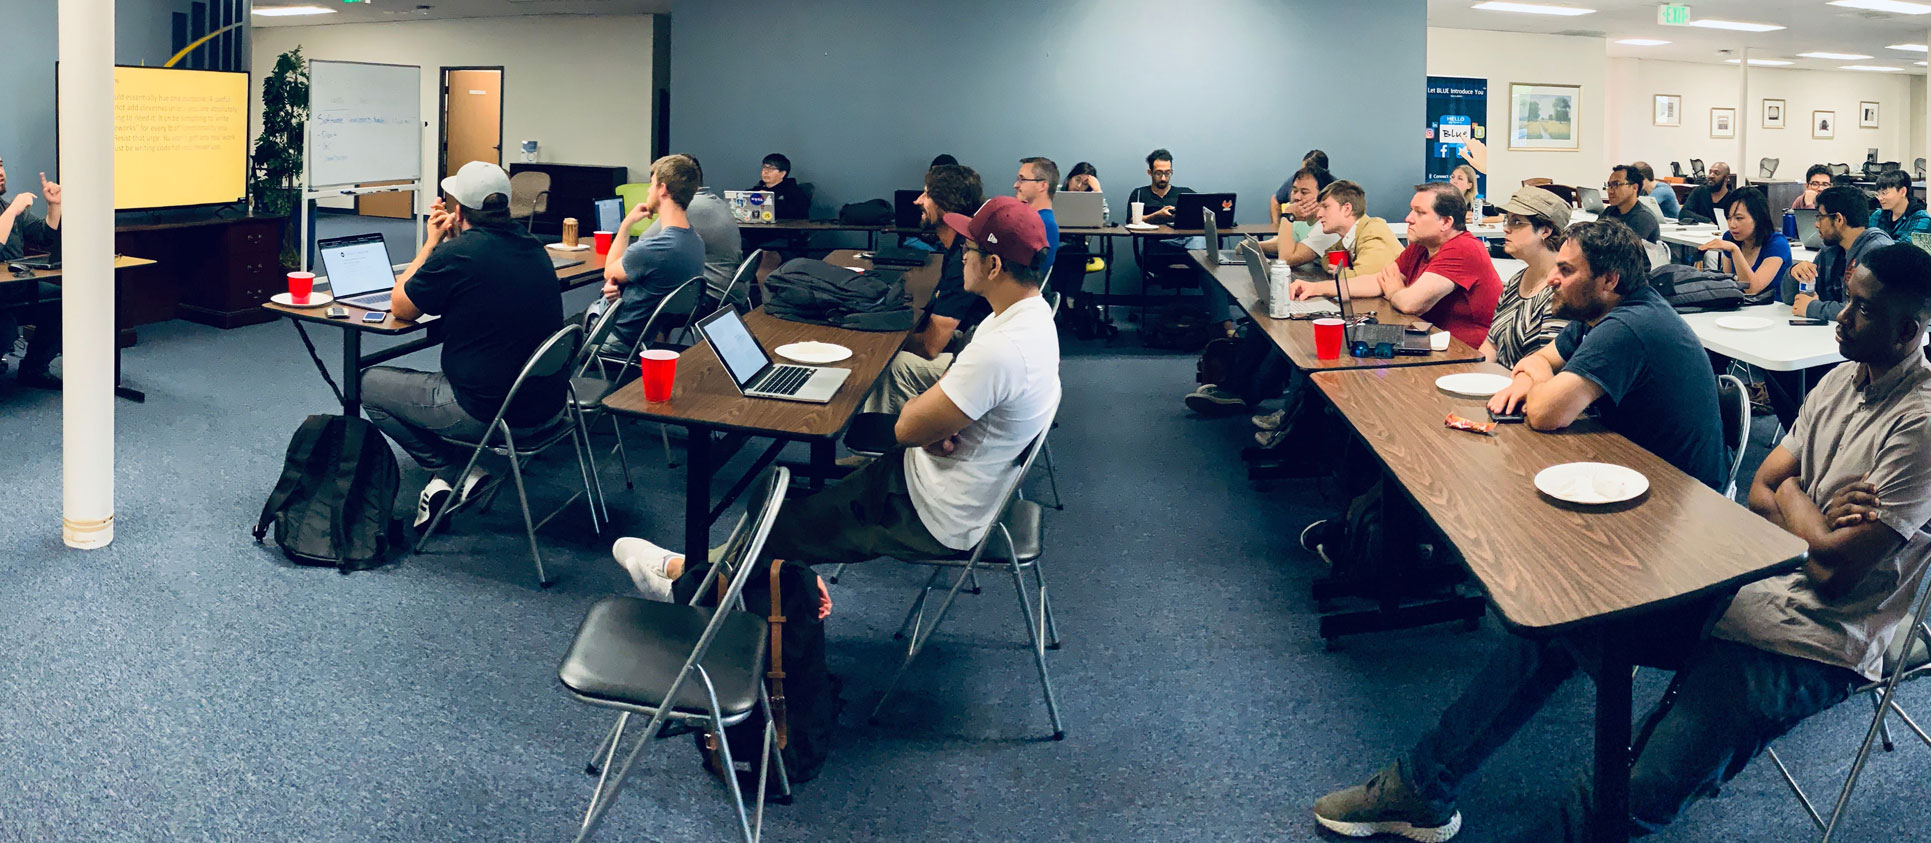
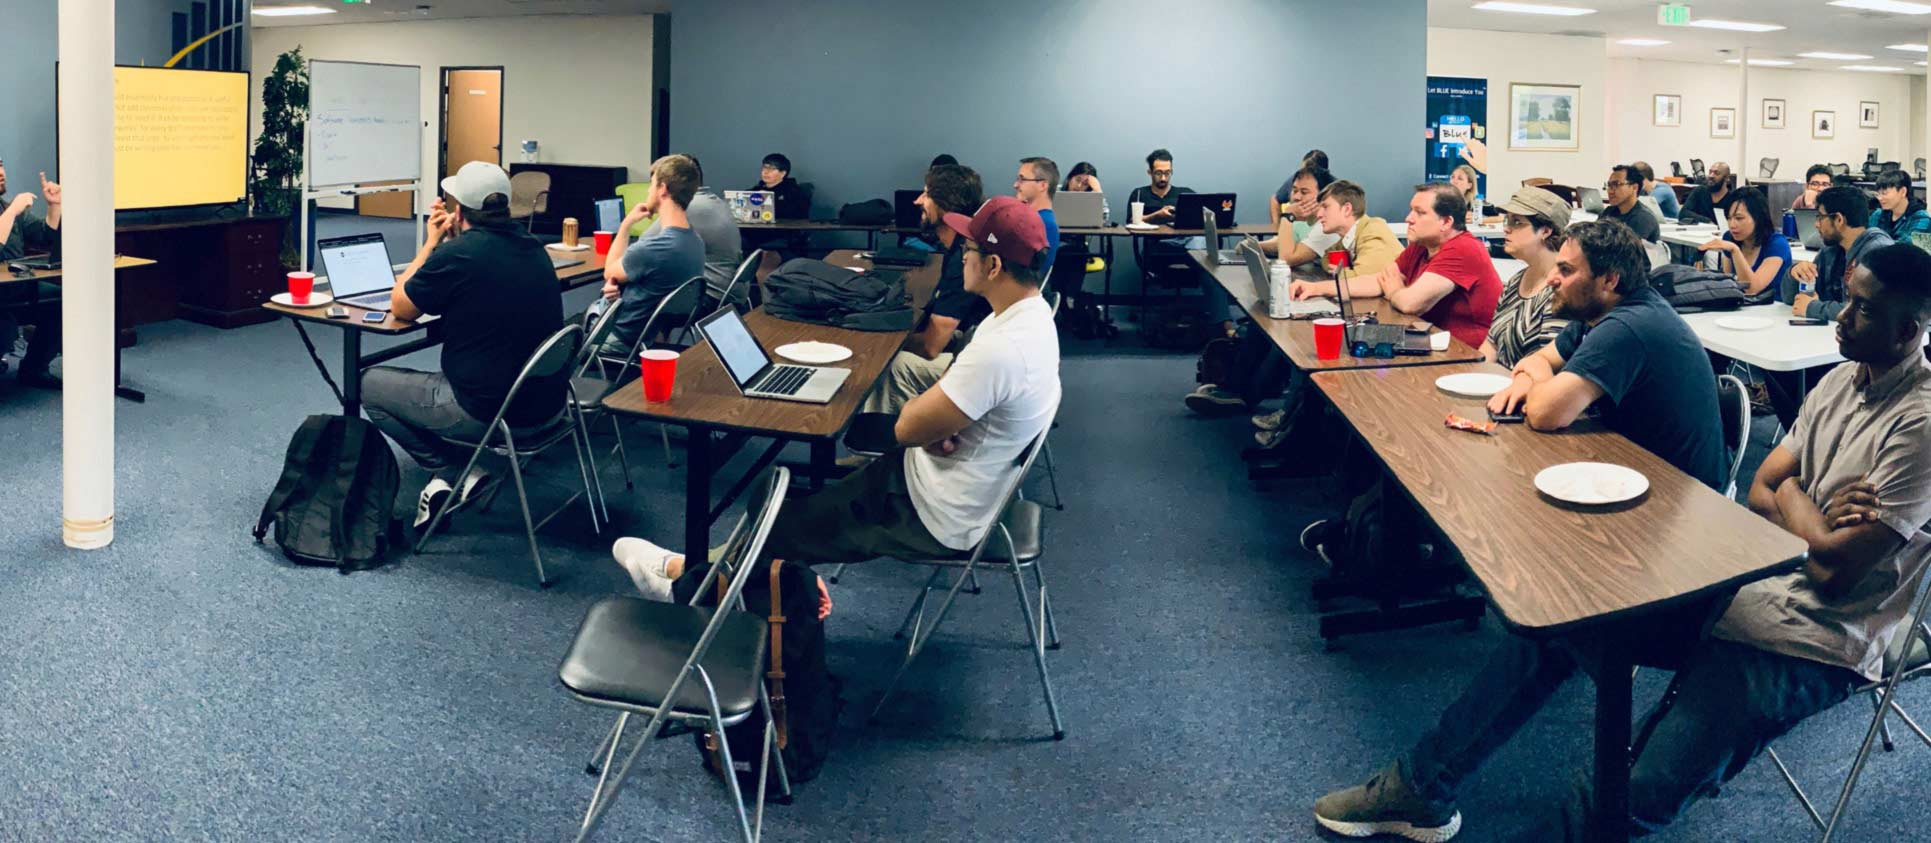
optimized images for leadership

diff --git a/src/components/Leadership.js b/src/components/Leadership.js
@@ -56,7 +56,7 @@ function Leadership() {
       {
         userName: 'Jen Latchman',
         title: 'Digital Marketing',
-        image: '../static/images/desktop/jenlatchman.png',
+        image: '../static/images/desktop/jenlatchman.jpg',
       },
       {
         userName: 'Jonathan Nguyen',
@@ -83,7 +83,7 @@ function Leadership() {
       {
         userName: 'Vast Lee',
         title: 'What Employers Want',
-        image: '../static/images/desktop/vastlee.png',
+        image: '../static/images/desktop/vastlee.jpg',
       },
       {
         userName: 'Tim Jenkins',

diff --git a/src/components/Community.js b/src/components/Community.js
@@ -20,10 +20,6 @@ const commPic = [
     alt: 'community pic',
   },
   {
-    key: 5, image: '../../static/images/community/img_5.jpg',
-    alt: 'community pic',
-  },
-  {
     key: 6, image: '../../static/images/community/img_6.jpg',
     alt: 'community pic',
   },
@@ -37,10 +33,6 @@ const commPic = [
   },
   {
     key: 9, image: '../../static/images/community/img_9.jpg',
-    alt: 'community pic',
-  },
-  {
-    key: 10, image: '../../static/images/community/img_10.jpg',
     alt: 'community pic',
   },
   {
